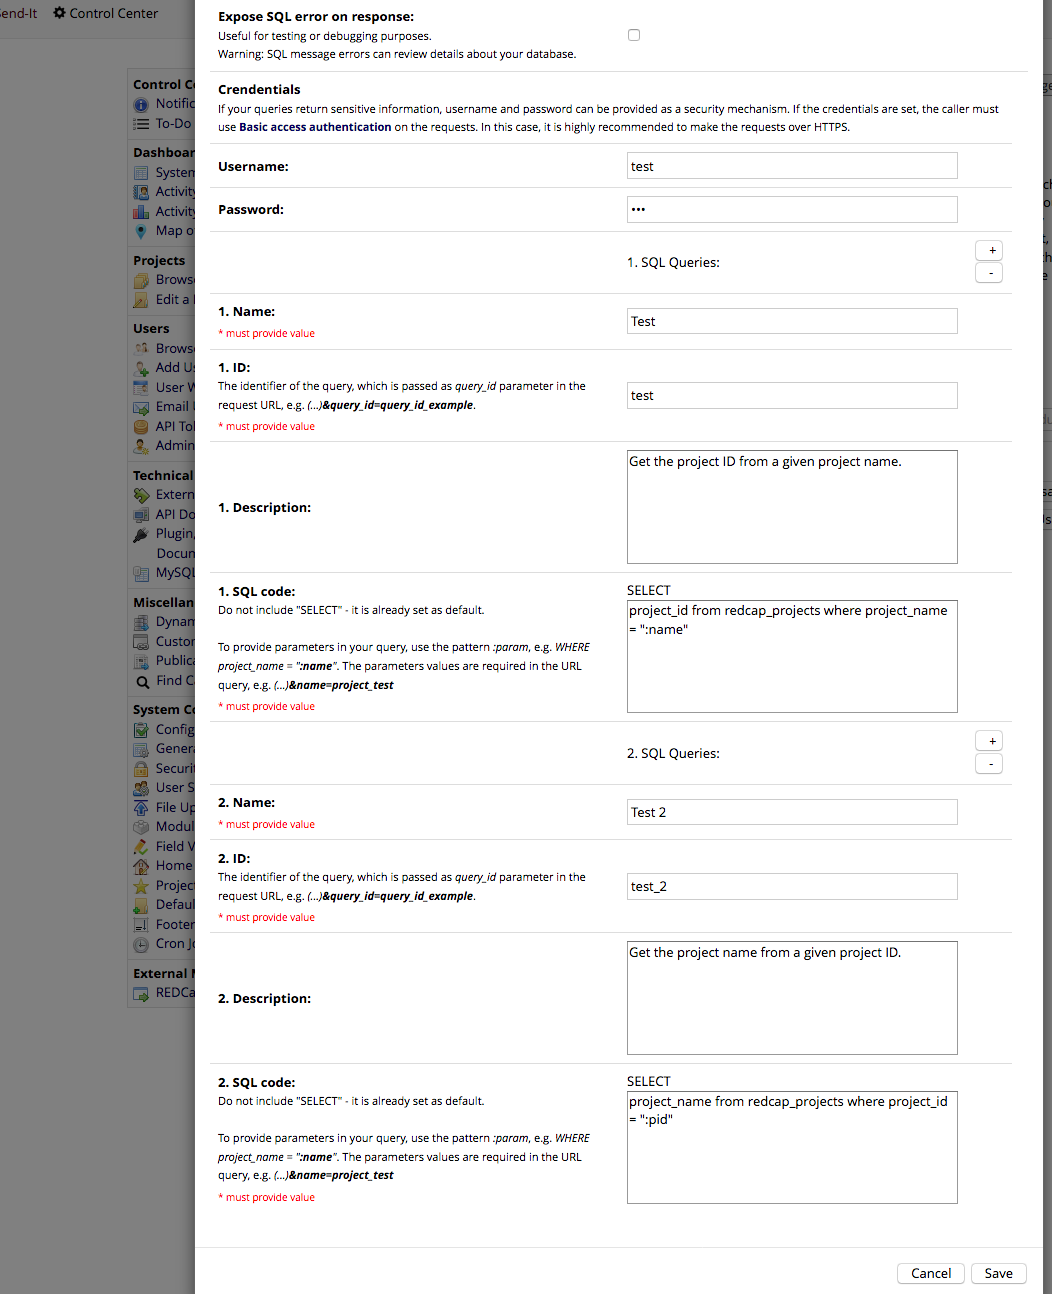
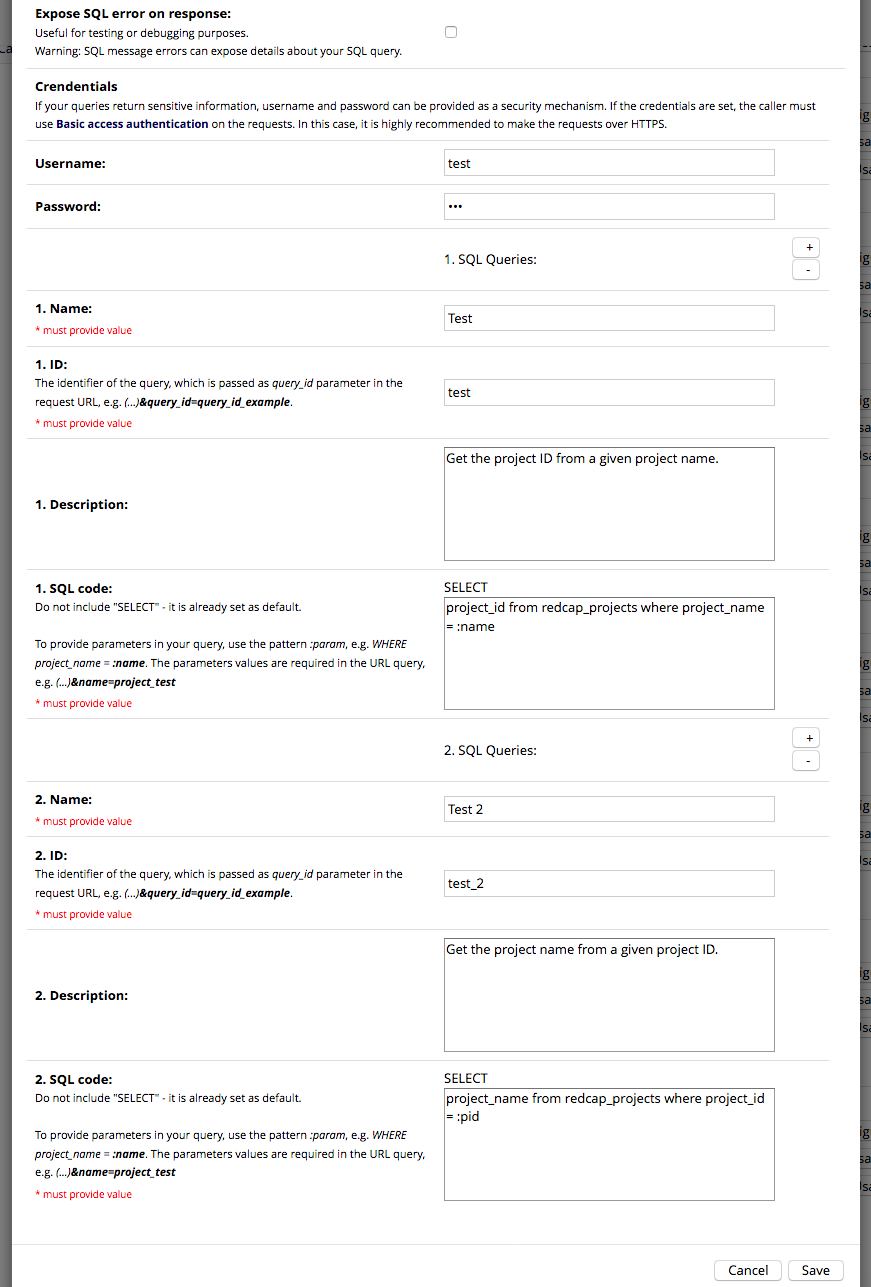
Fixing SQL injection vulnerability.

diff --git a/plugins/endpoint.php b/plugins/endpoint.php
@@ -36,8 +36,13 @@ foreach ($settings['queries'] as $query_info) {
                 $module->returnErrorResponse('Missing param \'' . $arg . '\'.');
             }
 
+            $value = db_escape($_GET[$arg]);
+            if (!is_numeric($value)) {
+                $value = '"' . db_real_escape_string($value) . '"';
+            }
+
             // Replacing wildcards.
-            $sql = str_replace(':' . $arg, db_escape($_GET[$arg]), $sql);
+            $sql = str_replace(':' . $arg, $value, $sql);
         }
     }
 

diff --git a/README.md b/README.md
@@ -62,10 +62,12 @@ There are other error handlings available, which are not shown on these examples
 ## Features included
 
 ### Parameterized SQL queries
-You may provide parameters to your SQL queries by using the pattern `:param`, e.g. `(...) WHERE project_name = ":name"`. The parameters are required in the endpoint URL query, e.g. `https://yourEndpoint?(...)&name=project_test`.
+You may provide parameters to your SQL queries by using the pattern `:param`, e.g. `(...) WHERE project_name = :name`. The parameters are required in the endpoint URL query, e.g. `https://yourEndpoint?(...)&name=project_test`.
 
 #### Project ID parameter
 If you specify a `:pid` parameter in your query, the service will only work for projects that have REDCap Web Services enabled. It is a good way to restrict the service scope.
+
+__Important:__ To avoid SQL injection, every non numeric parameter provided is quoted by this module. So __do not quote your parameters__, no matter if it is a string or not. For example, the following query won't work properly: `(...) WHERE project_name = ":name"`.
 
 ### Basic access authentication
 If your queries return sensitive information, username and password can be provided as a security mechanism. If the credentials are set, the caller must use [Basic access authentication](https://en.wikipedia.org/wiki/Basic_access_authentication) on the requests. In this case, it is highly recommended to make the requests over HTTPS.
